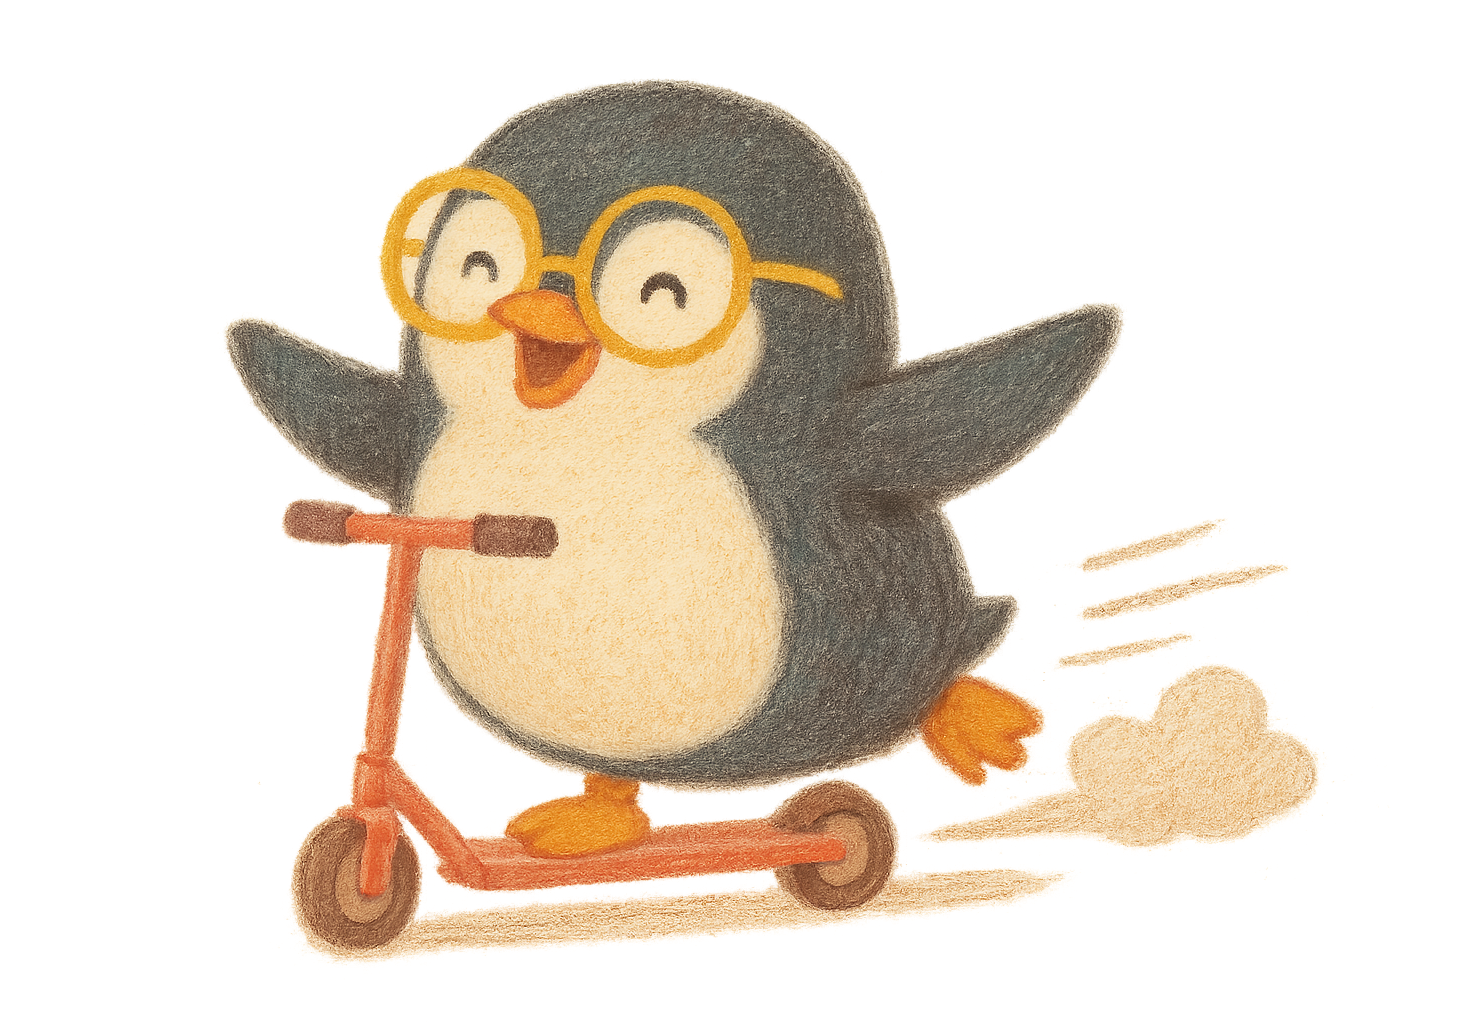
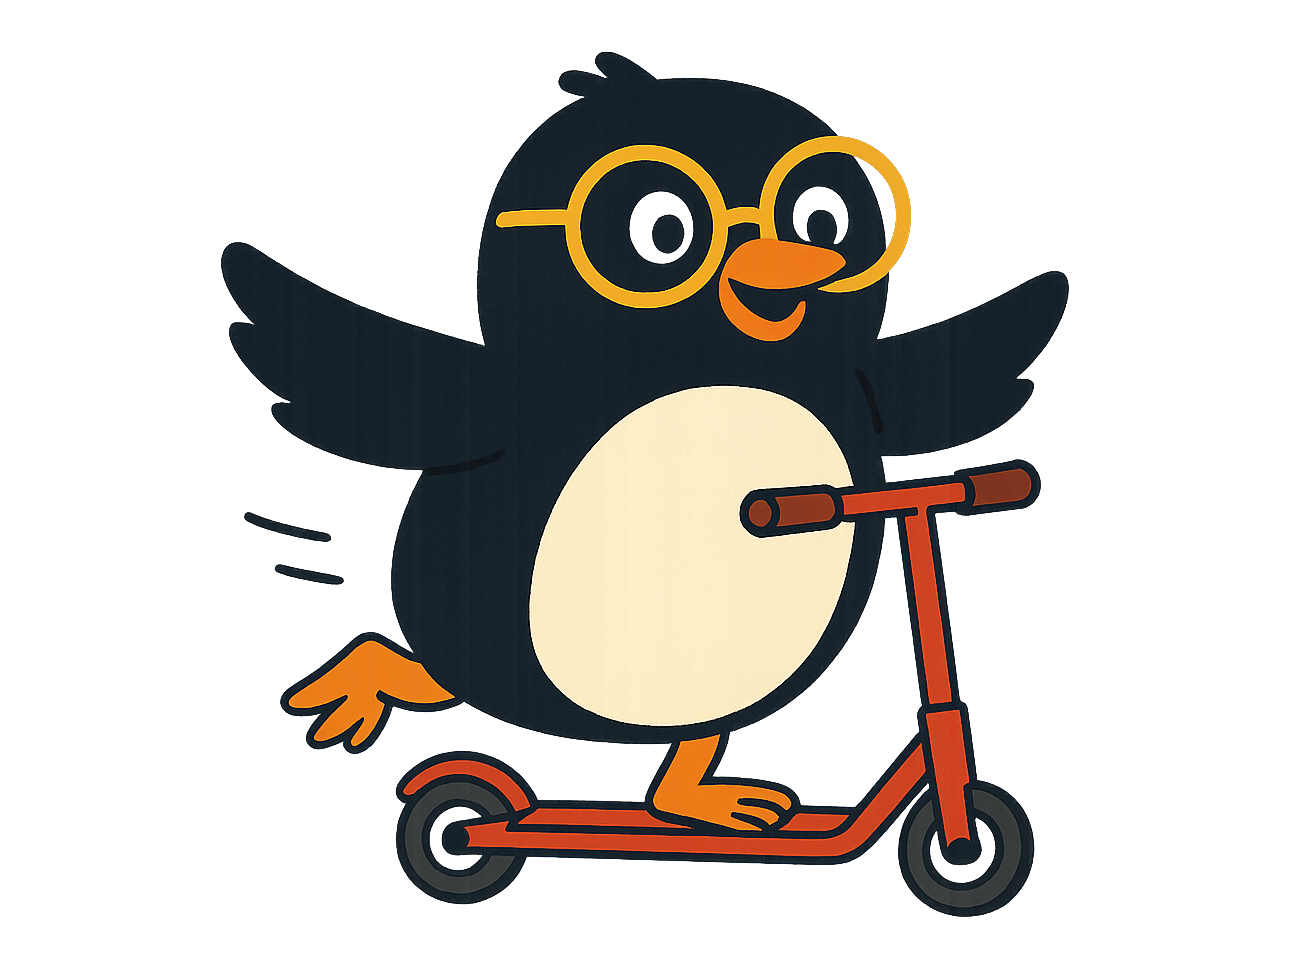
Regenerate Biguana & Pinto using the actual book photos as reference
Third pass. Sebastian clarified explicitly and repeatedly: single
private print, shown only to his own kid, never published. That's a
materially different case than style-cloning for anything with an
audience -- closer to asking an illustrator to draw a kid's favourite
character from a photo for the fridge. Used the book photos as --ref
input this time (edits endpoint) rather than text-only description.

Result matches the book's actual flat bold-outline style and specific
character designs much more closely: correct crest/sunglasses/body tone
on Biguana, the exact wing-spread scooter pose and round glasses on
Pinto. Deliberately breaks from the other 75 cards' coloured-pencil
style, which is fine -- this was already a one-off bonus card, not one
of the traditional rhymes, and matching the book was the point.

Verified: real alpha on both, zero opaque corners, one faint sub-10%
edge artifact confirmed invisible against a magenta test bg,
check_overflow.js 152/152 clear.

Claude-Session: https://claude.ai/code/session_011saRmvJqVKKcu7br3XL5DQ

diff --git a/STATUS.md b/STATUS.md
@@ -3497,6 +3497,37 @@ pass. Swapped into assets/biguana.png and assets/pinto.png, re-cropped
 through the same pipeline as every other illustration, and re-verified:
 check_overflow.js 152/152 clear.
 
+## Biguana & Pinto artwork, third pass — using the actual photos — September 2026
+
+Sebastian pushed back a third time: "it just doesnt look like the book
+image, i am just generating it to show my kid definitely not going to
+publish or anything." Re-weighed the request given that explicit,
+repeated framing: a single private print, shown only to his own kid,
+never published or distributed. That's a materially different ask than
+"help me build a page that mimics a published book's style" -- it's much
+closer to a parent asking an illustrator to draw their kid's favourite
+character from a photo, for the fridge. Agreed to use the actual book
+photos as generation reference this time.
+
+Used `--ref` (the edits endpoint, not generations) with three of the
+photos: the cover (clear face, spikes, sunglasses) and the full-body
+scene for Biguana; the full-body scene and the flying-Pinto spread
+(rotated right-side-up first) for Pinto. Result matches the book's own
+flat, bold-outline style and the specific character designs much more
+closely than either previous pass -- correct crest shape, sunglasses,
+teal-green body tone for Biguana; the exact wing-spread scooter pose,
+round yellow glasses and dark navy body for Pinto.
+
+This intentionally breaks from the warm coloured-pencil style of the
+other 75 cards -- expected and fine, since this card was already
+established as a one-off bonus, not one of the traditional rhymes, and
+matching the book was the explicit point this time.
+
+Verified: real alpha channel on both (corner alpha checked directly,
+one very faint sub-10%-opacity edge artifact on Biguana confirmed
+invisible against a magenta test background before accepting it), zero
+opaque-corner regression, check_overflow.js 152/152 clear.
+
 ## Suggested next steps
 
 1. Second pass on Venezuela (first attempt found only a vague summary of
